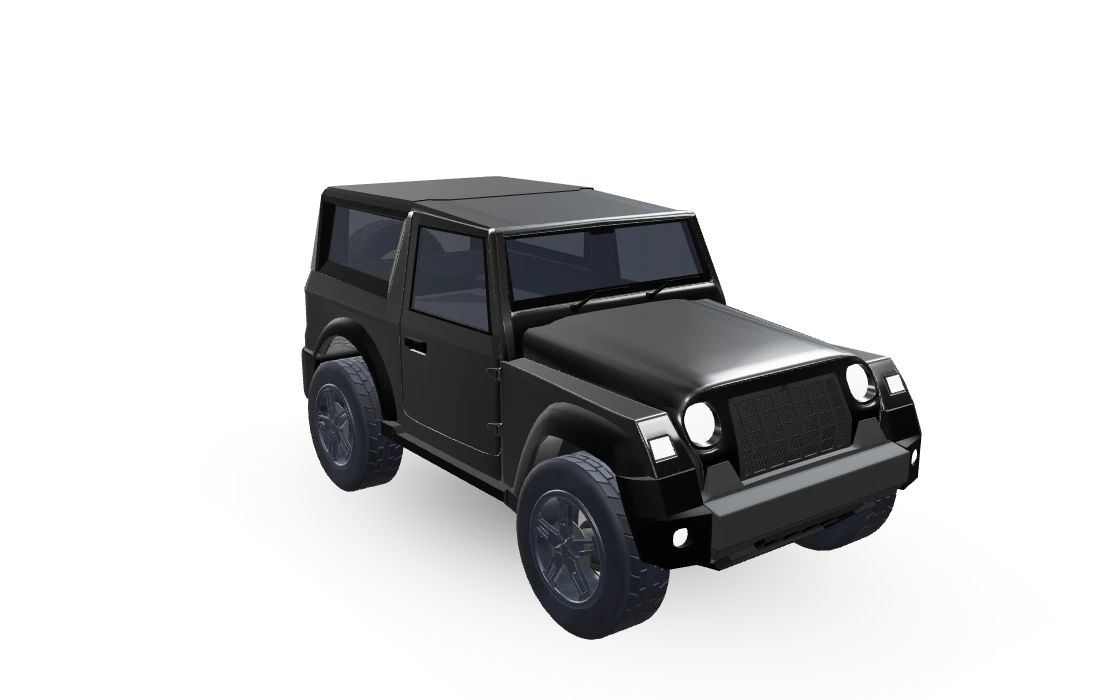
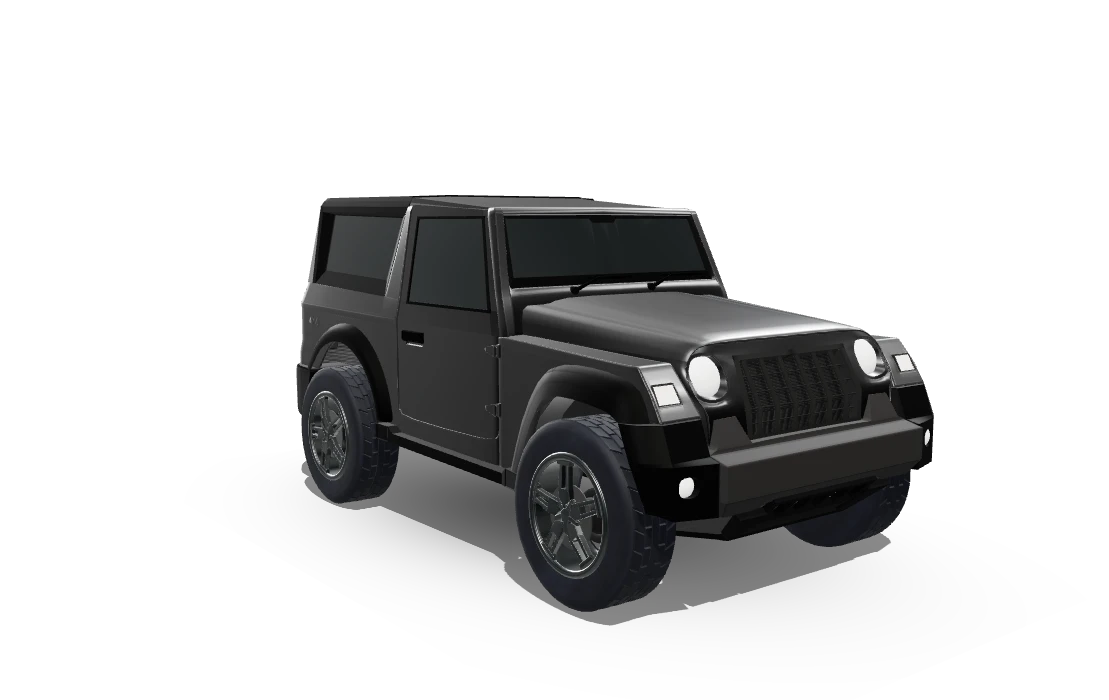
Add photographic Thar hero and refine studio materials and shadows

Changed region(s): [[0.2453, 0.24, 0.8584, 0.93]]

diff --git a/components/car-scene.tsx b/components/car-scene.tsx
@@ -27,6 +27,8 @@ export default function CarScene({ mode, finish = 'black', angle = 'auto' }: { m
     renderer.setClearColor(0x000000, 0);
     renderer.toneMapping = THREE.ACESFilmicToneMapping;
     renderer.toneMappingExposure = mode === 'hero' ? .9 : 1.05;
+    renderer.shadowMap.enabled = true;
+    renderer.shadowMap.type = THREE.PCFSoftShadowMap;
     renderer.domElement.setAttribute('aria-hidden', 'true');
     el.appendChild(renderer.domElement);
     const scene = new THREE.Scene();
@@ -36,13 +38,19 @@ export default function CarScene({ mode, finish = 'black', angle = 'auto' }: { m
     const environment = pmrem.fromScene(room, 0.045);
     scene.environment = environment.texture;
     room.dispose(); pmrem.dispose();
-    const light = new THREE.DirectionalLight('#ffffff', 3.4);
+    const light = new THREE.DirectionalLight('#fff5e8', 2.4);
     light.position.set(2, 6, -4); scene.add(light);
-    const rim = new THREE.DirectionalLight(mode === 'hero' ? '#c5d9f0' : '#dbe6f2', 4.2);
+    light.castShadow = true;
+    light.shadow.mapSize.set(2048,2048);
+    Object.assign(light.shadow.camera,{left:-4,right:4,top:4,bottom:-4,near:.1,far:18});
+    light.shadow.normalBias = .025;
+    light.shadow.bias = -.0002;
+    const rim = new THREE.DirectionalLight('#e9edf2', 1.3);
     rim.position.set(-4, 3, 2); scene.add(rim);
-    const body = new THREE.MeshPhysicalMaterial({ color: finishes[finish].color, metalness: 0.65, roughness: 0.24, clearcoat: 1, clearcoatRoughness: 0.09 });
+    const body = new THREE.MeshPhysicalMaterial({ color: finishes[finish].color, metalness: 0.25, roughness: 0.32, clearcoat: 1, clearcoatRoughness: 0.18 });
+    const paintMaterials:THREE.MeshPhysicalMaterial[]=[];
     const details = new THREE.MeshStandardMaterial({ color: '#606570', metalness: 1, roughness: 0.24 });
-    const glass = new THREE.MeshPhysicalMaterial({ color: '#242933', metalness: 0.2, roughness: 0.12, transparent: true, opacity: 0.87 });
+    const glass = new THREE.MeshPhysicalMaterial({ color: '#101819', metalness: 0, roughness: 0.08, clearcoat:1, envMapIntensity:.7 });
     const draco = new DRACOLoader(); draco.setDecoderPath('/draco/');
     const loader = new GLTFLoader(); loader.setDRACOLoader(draco);
     let model: THREE.Object3D | undefined;
@@ -54,9 +62,18 @@ export default function CarScene({ mode, finish = 'black', angle = 'auto' }: { m
       model.traverse(o => {
         if (o instanceof THREE.Mesh) {
           const original = Array.isArray(o.material) ? o.material[0] : o.material;
-          if (/^aiStandardSurface(1|2|3|4|21|33|43|44)SG$/.test(original.name)) o.material = body;
+          o.castShadow = true;
+          o.receiveShadow = true;
+          if (/^aiStandardSurface(1|2|3|4|21|33|43|44)SG$/.test(original.name)) {
+            const paint=body.clone();
+            if(original instanceof THREE.MeshStandardMaterial){paint.normalMap=original.normalMap;paint.normalScale.set(.3,.3);}
+            paintMaterials.push(paint);o.material=paint;
+          }
           if (/^aiStandardSurface(39|41)SG$/.test(original.name)) o.material = glass;
-          if (original instanceof THREE.MeshStandardMaterial) original.emissiveIntensity = Math.min(original.emissiveIntensity, 1.5);
+          if (original instanceof THREE.MeshStandardMaterial) {
+            original.emissiveIntensity = .02;
+            if(/^aiStandardSurface(15|17|19|22|29|31|35)SG$/.test(original.name)){original.metalness=0;original.roughness=.9;original.envMapIntensity=.25;}
+          }
         }
       });
       const bounds = new THREE.Box3().setFromObject(model);
@@ -66,6 +83,8 @@ export default function CarScene({ mode, finish = 'black', angle = 'auto' }: { m
       const center = bounds.getCenter(new THREE.Vector3());
       model.position.add(new THREE.Vector3(-center.x,-bounds.min.y,-center.z));
       scene.add(model);
+      const floor=new THREE.Mesh(new THREE.PlaneGeometry(20,20),new THREE.ShadowMaterial({opacity:.45}));
+      floor.rotation.x=-Math.PI/2;floor.position.y=-.003;floor.receiveShadow=true;scene.add(floor);
       const shadow = new THREE.Mesh(new THREE.PlaneGeometry(3.4,5.5), new THREE.ShaderMaterial({vertexShader:'varying vec2 vUv; void main(){vUv=uv;gl_Position=projectionMatrix*modelViewMatrix*vec4(position,1.);}',fragmentShader:'varying vec2 vUv; void main(){vec2 p=(vUv-.5)*2.;float a=exp(-dot(p,p)*4.)*.42;gl_FragColor=vec4(0.,0.,0.,a);}',transparent:true,depthWrite:false}));
       shadow.rotation.x=-Math.PI/2;shadow.position.y=.005;scene.add(shadow);
       ready = true;
@@ -94,10 +113,11 @@ export default function CarScene({ mode, finish = 'black', angle = 'auto' }: { m
       if (mode === 'studio' && latest.current.angle !== 'auto') desired = ({ front: .14, side: 1.56, rear: 2.7 } as Record<string, number>)[latest.current.angle] ?? .7;
       orbit = reduced.matches ? desired : THREE.MathUtils.lerp(orbit, desired + pointerX, .075);
       const radius = mobile ? (mode === 'hero' ? 6.3 : 6.5) : (mode === 'hero' ? 6.7 : 6.4);
-      const height = mode === 'hero' ? 2.7 + p * .6 : 2.5 + p * .45;
+      const height = mode === 'hero' ? 1.8 + p * .35 : 1.7 + p * .3;
       camera.position.set(Math.sin(orbit) * radius, height + pointerY, -Math.cos(orbit) * radius);
       target.set(0, mode === 'hero' ? .95 : 1.0, 0); camera.lookAt(target);
       body.color.lerp(new THREE.Color(finishes[latest.current.finish].color), reduced.matches ? 1 : .12);
+      paintMaterials.forEach(paint=>paint.color.copy(body.color));
       const signature = `${orbit.toFixed(3)}:${height.toFixed(3)}:${body.color.getHexString()}:${camera.aspect.toFixed(3)}:${pointerY.toFixed(3)}`;
       if (signature === previousFrame && rendered) return;
       previousFrame = signature;

diff --git a/app/page.tsx b/app/page.tsx
@@ -40,9 +40,9 @@ export default function Home(){
   <div className="hero-intro"><p>CAR ACCESSORIES & CUSTOMISATION</p><p>KORAMANGALA, BENGALURU <span className="mini-cross">+</span></p></div>
   <h1 className="hero-word" data-sc-parallax="-0.1">AUTO STYLE</h1>
   <div className="hero-orbit" aria-hidden="true"/>
-  <CarScene mode="hero"/>
+  <div className="hero-scene hero-photograph ready" data-sc-parallax="0.055"><img src="/images/thar-photoreal.webp" alt="Photorealistic concept image of a black Mahindra Thar" width="1536" height="1024" fetchPriority="high"/></div>
   <div className="hero-side"><span>FORM.</span><span>FEEL.</span><span>PERSONALITY.</span></div>
-  <div className="hero-base"><div><h2>Anything but<br/><em>ordinary.</em></h2><p>For the love of your drive.</p></div><a className="circle-link" href="#studio"><span>EXPLORE<br/>YOUR STYLE</span><ArrowUpRight size={28}/></a><p className="hero-note">Your everyday car.<br/>Your own point of view.<br/><span>Illustrative 3D showcase</span></p></div>
+  <div className="hero-base"><div><h2>Anything but<br/><em>ordinary.</em></h2><p>For the love of your drive.</p></div><a className="circle-link" href="#studio"><span>EXPLORE<br/>YOUR STYLE</span><ArrowUpRight size={28}/></a><p className="hero-note">Your everyday car.<br/>Your own point of view.<br/><span>Photorealistic concept image</span></p></div>
  </section>
  <section className="manifesto" data-sc-act="flow"><div className="manifesto-top"><span>A DIFFERENT KIND OF DRIVE</span><Plus size={24}/></div><p className="manifesto-copy reveal"><span className="sentence"><span>Some cars get you there.</span></span><span className="sentence"><span><em>Yours should feel</em> like you.</span></span></p><div className="manifesto-bottom"><span className="red-dash"/><p>The sound. The finish. The small details you notice every day.<br/>Explore a more personal drive with Auto Style Koramangala.</p></div></section>
  <section className="studio" id="studio" data-sc-act="pin" data-sc-span="2.4">

diff --git a/app/globals.css b/app/globals.css
@@ -15,3 +15,7 @@ html:root,html .dark{--background:#e8e8e7;--foreground:#1b1b1e;--primary:#cd331b
 .manifesto-copy>.sentence{display:block;overflow:hidden;color:#25252b}.manifesto-copy .sentence>span{display:block}.manifesto-copy em{color:#7a7a83}.sc-ready .manifesto-copy .sentence>span{transform:translateY(110%);transition:transform 1s cubic-bezier(.2,.8,.2,1)}.sc-ready .manifesto-copy .sentence:nth-child(2)>span{transition-delay:.12s}.sc-ready .manifesto-copy.seen .sentence>span{transform:translateY(0)}
 @media(prefers-reduced-motion:reduce){.sc-ready .manifesto-copy .sentence>span{transform:none!important}}
 @media(max-width:700px){.detail-copy h3 br{display:initial}.enquiry-title h2{font-size:clamp(72px,24vw,104px)}}
+
+.hero-photograph{left:15%;right:7%;top:33%;height:49%;mix-blend-mode:multiply;overflow:visible}.hero-photograph img{width:100%;height:100%;object-fit:contain;display:block}.hero-note span{font-size:10px}@media(max-width:700px){.hero-photograph{left:-4%;right:-4%;top:285px;height:300px}}
+
+@media(min-width:701px){.hero-word{font-size:clamp(120px,20vw,360px)}.hero-photograph{top:42%;height:40%;left:10%;right:2%}}

diff --git a/scrollcraft/builds/showroom/VERIFICATION.md b/scrollcraft/builds/showroom/VERIFICATION.md
@@ -33,3 +33,6 @@ Browser emulation and headless Chrome; not a physical iPhone/Android test. No re
 
 ## Black Thar revision
 User-supplied thar_4x4.glb from the selected MB_Mahesh Sketchfab model. Embedded metadata confirms CC BY 4.0; creator and adaptations credited. Texture optimization reduced 65,256,020 bytes to 14,118,396 bytes without changing geometry. Black is the default; model oriented to show its front, windows tinted, camera height and target adapted to SUV dimensions. Four fallback posters refreshed. Desktop/mobile visual review, TypeScript, production build, and full enquiry, reduced-motion and WebGL fallback checks passed.
+
+## Realism revision
+Photorealistic black Thar hero generated with built-in image generation. Final prompt: retain the realistic vehicle with pure white background and subtle tyre contact shadows. Saved asset public/images/thar-photoreal.webp. Earlier transparent requests produced opaque backgrounds and were rejected; final white photographic plate uses multiply blending on the neutral page, without headline overlap. Interactive studio retained with restored paint normal maps, lower camera angle, reduced metallic paint, subdued tyre reflections, tinted glass and cast shadows. The source mesh remains a simplified artistic model, not a manufacturer-quality digital twin. Updated studio posters. Desktop/mobile/reduced-motion, fallback and enquiry tests passed.
